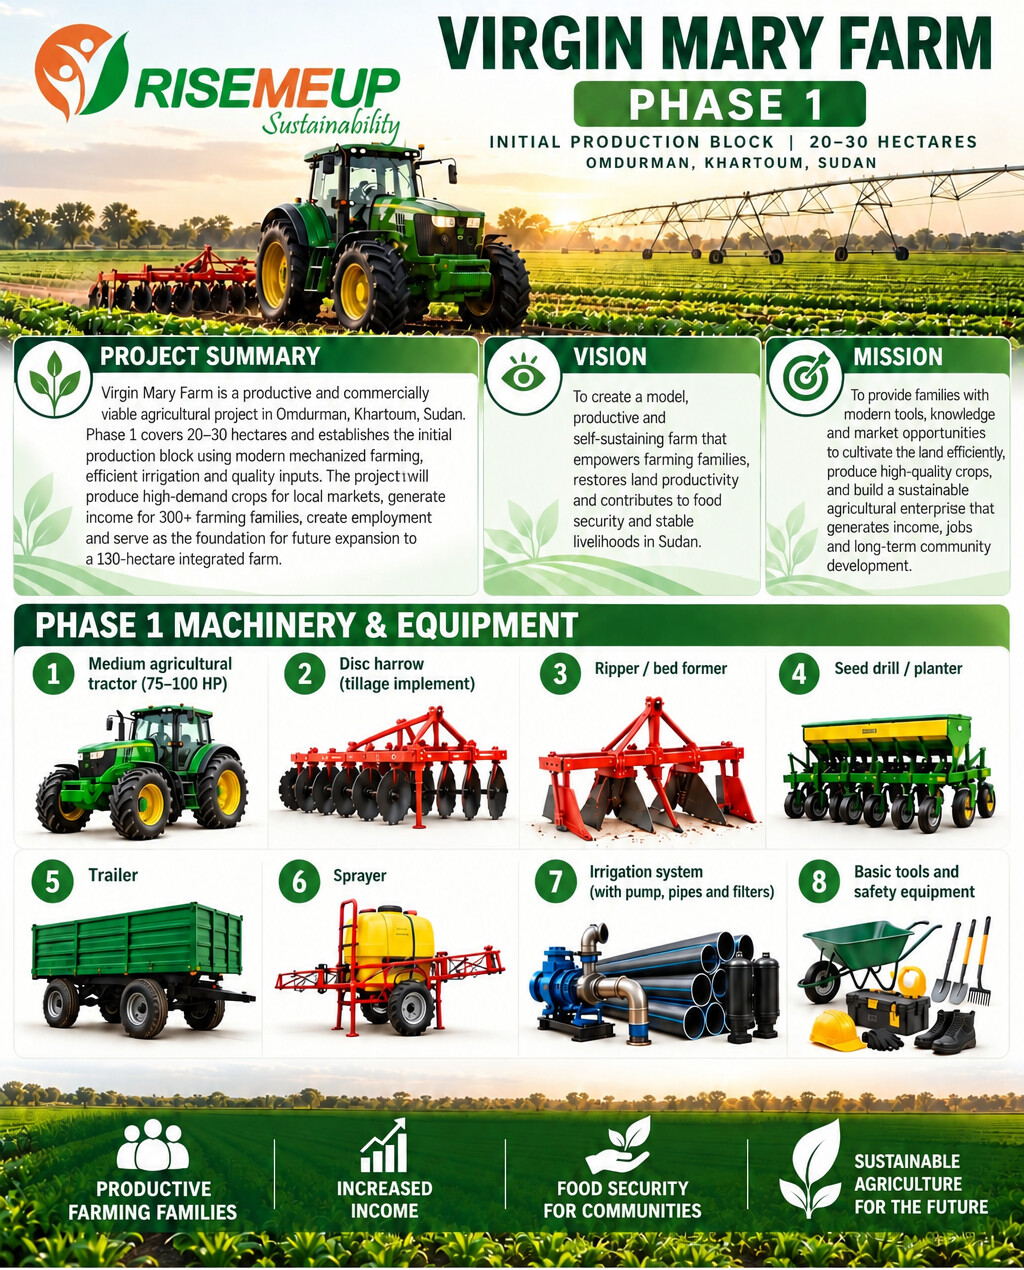
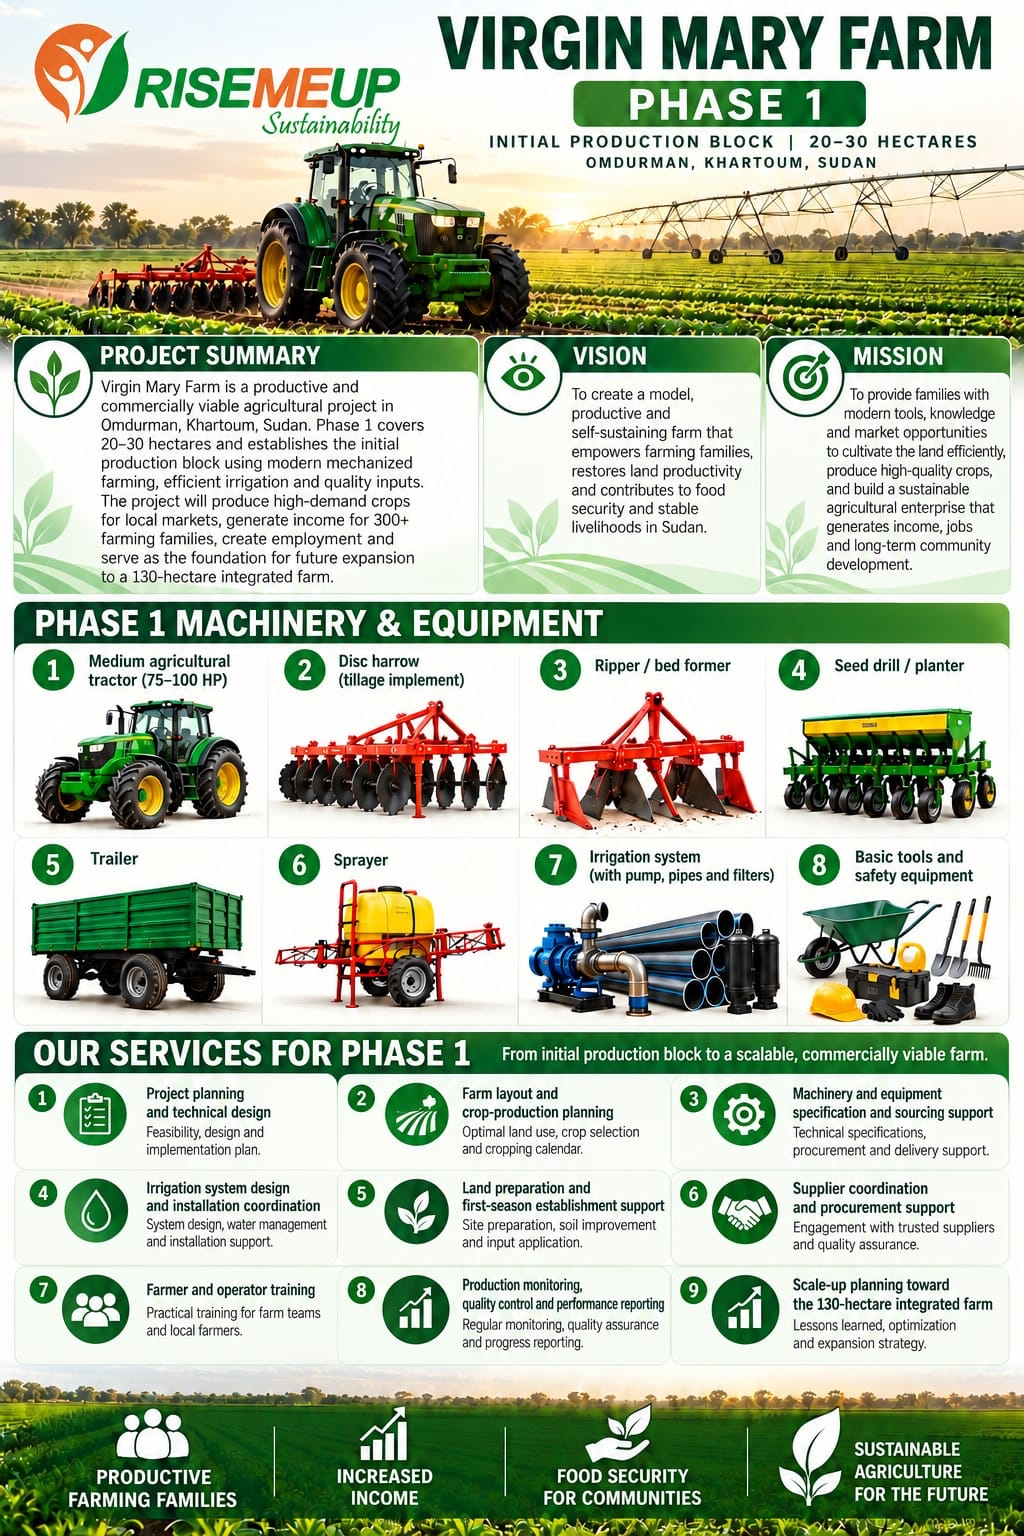
Use the supplied Phase 1 equipment and services picture

diff --git a/public/development-partners/index.html b/public/development-partners/index.html
@@ -81,8 +81,8 @@
   <section class="phase-one-concept" id="phase-one-concept" aria-labelledby="phase-one-concept-title">
     <p class="eyebrow">The Phase 1 production concept, in pictures</p><h3 id="phase-one-concept-title">The tools to start growing.</h3>
     <p>The proposed 20–30 hectare production block is broader than the first water-restoration stage. A technical assessment will establish the viable starting area, which may be smaller, and the machinery specifications. The picture below shows equipment categories to assess, not a final procurement list.</p>
-    <figure class="phase-one-picture"><a href="/virgin-mary-phase-one-machinery.jpg" target="_blank" rel="noopener noreferrer" aria-label="Open the proposed equipment needs illustration at full size in a new tab"><img src="/virgin-mary-phase-one-machinery.jpg" width="1024" height="1270" loading="lazy" alt="Virgin Mary Farm Phase 1 planning illustration with the original Risemeup logo and eight proposed equipment categories: tractor, disc harrow, ripper or bed former, seed drill or planter, trailer, sprayer, irrigation system, and basic tools and safety equipment. No estimated prices are shown." /></a><figcaption>Planning illustration, not photographs of existing farm assets or confirmed purchases. Sustainable farming education and operator training will support each stage.</figcaption></figure>
-    <a class="button" href="/virgin-mary-phase-one-machinery.jpg" target="_blank" rel="noopener noreferrer">Open the equipment picture at full size ↗</a>
+    <figure class="phase-one-picture"><a href="/virgin-mary-phase-one-machinery.jpg?v=2" target="_blank" rel="noopener noreferrer" aria-label="Open the proposed equipment and Phase 1 services illustration at full size in a new tab"><img src="/virgin-mary-phase-one-machinery.jpg?v=2" width="1024" height="1536" loading="lazy" alt="Virgin Mary Farm Phase 1 planning illustration with the original Risemeup logo, eight proposed equipment categories and nine planned support activities, including technical design, crop planning, equipment sourcing, irrigation, land preparation, supplier coordination, training, monitoring and expansion planning. No estimated prices are shown." /></a><figcaption>Planning illustration of proposed equipment and project-support activities, not photographs of existing farm assets or confirmed purchases. Sustainable farming education and operator training will support each stage.</figcaption></figure>
+    <a class="button" href="/virgin-mary-phase-one-machinery.jpg?v=2" target="_blank" rel="noopener noreferrer">Open the equipment picture at full size ↗</a>
     <p class="partners-note"><strong>Assessment before procurement.</strong> We will agree specifications, quantities, operators and maintenance arrangements before requesting equipment. The first-stage budget must include well works, new water storage, suitable power, delivery, installation, training and ongoing maintenance. Unverified planning prices are not presented as a funding request.</p>
     <p class="eyebrow">Water comes first · provisional assessment-led needs below</p>
   </section>

diff --git a/src/components/FarmRoadmap.tsx b/src/components/FarmRoadmap.tsx
@@ -61,12 +61,12 @@ export default function FarmRoadmap() {
         <h4 id="phase-one-equipment-title">The tools to start growing.</h4>
         <p>Our proposed first production block brings together machinery, irrigation and practical training. The illustration explores a 20–30 hectare starting area; the area and equipment will depend on the water assessment and agreed funding.</p>
         <figure className="growth-illustration">
-          <a href="/virgin-mary-phase-one-machinery.jpg" target="_blank" rel="noopener noreferrer" aria-label="Open the proposed equipment needs illustration at full size in a new tab">
-            <img src="/virgin-mary-phase-one-machinery.jpg" width="1024" height="1270" loading="lazy" alt="Virgin Mary Farm Phase 1 planning illustration with the original Risemeup logo and eight proposed equipment categories: tractor, disc harrow, ripper or bed former, seed drill or planter, trailer, sprayer, irrigation system, and basic tools and safety equipment. No estimated prices are shown." />
+          <a href="/virgin-mary-phase-one-machinery.jpg?v=2" target="_blank" rel="noopener noreferrer" aria-label="Open the proposed equipment and Phase 1 services illustration at full size in a new tab">
+            <img src="/virgin-mary-phase-one-machinery.jpg?v=2" width="1024" height="1536" loading="lazy" alt="Virgin Mary Farm Phase 1 planning illustration with the original Risemeup logo, eight proposed equipment categories and nine planned support activities, including technical design, crop planning, equipment sourcing, irrigation, land preparation, supplier coordination, training, monitoring and expansion planning. No estimated prices are shown." />
           </a>
-          <figcaption>Proposed equipment, not existing assets or confirmed purchases. Water restoration comes first. Machinery specifications and quantities will follow technical assessment. A costed first-stage plan will be agreed before fundraising for equipment delivery.</figcaption>
+          <figcaption>Proposed equipment and project-support activities, not existing assets or confirmed purchases. Water restoration comes first. Machinery specifications and quantities will follow technical assessment. A costed first-stage plan will be agreed before fundraising for equipment delivery.</figcaption>
         </figure>
-        <div className="actions"><a className="button" href="/virgin-mary-phase-one-machinery.jpg" target="_blank" rel="noopener noreferrer">Open the equipment picture ↗</a><a className="text-link" href="/development-partners/#phase-one-concept">Explore equipment needs →</a></div>
+        <div className="actions"><a className="button" href="/virgin-mary-phase-one-machinery.jpg?v=2" target="_blank" rel="noopener noreferrer">Open the equipment picture ↗</a><a className="text-link" href="/development-partners/#phase-one-concept">Explore equipment needs →</a></div>
       </section>
       <details className="growth-details">
       <summary>Read the five phases and funding approach</summary>
